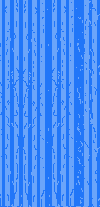
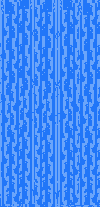
Added North and South view of skeleton.

diff --git a/js/World.js b/js/World.js
@@ -15,7 +15,7 @@ var fallDale =   [  0, 29, 29, 29, 29, 29, 29, 29, 29, 29, 29, 33,  0,  0, 27, 1
 				    0, 27, 33,  0,  1,  0,  0,  0,  0,  0,  0,  0, 27, 33,  0, 17,  0,313,314,  0,  0,313,314,  0,  1,  0,313,314,  0,  0,  0,  0,  0,  0,  0,  0,  0,  0,  0,  0,  0,  0,  0,  0,  0,  0,  0,  0,  0,  0,  0,  0,  0,  0,311,312,  0,  0,  0,  0,  0,  0, 31,  0,
 				    0, 27, 33,  0,  1,  0,  0,  0, 34, 35, 35, 36, 27, 33,  0, 17,  0,  0,  0,  0,  0,  0,  0,  0,  1,  0,  0,  0,  0,  0,  0,  0,  0,  0,  0,  0,  0,  0,  0,  0,  0,  0,  0,  0,  0,  0,  0,  0,  0,  0,  0,  0,  0,  0,313,314,  0,  0,  0,  0,  0,  0, 31,  0,
 				    0, 27, 33,  1,  1,  0,  0,  0, 37, 38, 38, 39, 27, 33,  0, 17,  0,  0,  0,311,312,  0,  0,  0,  1,  1,  0,  0,311,312,  0,  0,  0,  0,  0,  0,  0,  0,  0,  0,  0,  0,  0,  0,  0,  0,  0,  0,  0,  0,  0,  0,  0,  0,  0,  0,  0,  0,  0,  0,  0,  0, 31,  0,
-				    0, 27, 33,  1,  0,  0,  0,  0, 37, 38, 38, 39, 27, 33,  0, 17,  0,  0,  0,313,314,  0,  0,  0,  0,  1,  0,  0,313,314,  0,  0,  0,  0,  0,  0,  0,  0,  0,  0,  0,  0,  0,  0,  0,  0,  0,  0,  0,  0,  0,  0,  0,  0,  0,  0,  0,  0,  0,  0,  0,  0, 31,  0,
+				    0, 27, 33,  1,800,  0,  0,  0, 37, 38, 38, 39, 27, 33,  0, 17,  0,  0,  0,313,314,  0,  0,  0,  0,  1,  0,  0,313,314,  0,  0,  0,  0,  0,  0,  0,  0,  0,  0,  0,  0,  0,  0,  0,  0,  0,  0,  0,  0,  0,  0,  0,  0,  0,  0,  0,  0,  0,  0,  0,  0, 31,  0,
 				    0, 27, 33,  1,  0,311,312,  0, 40, 41, 41, 42, 27, 33,  0, 17,  0,  0,  0,  0,  0,  0,  0,  0,  0,  1,  0,  0,  0,  0,  0,  0,  0,  0,  0,  0,  0,  0,262,263,263,263,263,263,263,263,263,263,264, 33,  0,  0,  0,  0,  0,  0,  0,  0,  0,  0,  0,  0, 31,  0,  
 				    0, 27, 33,801,  0,313,314,  0,  0,  0,  0,  0, 27, 33,  0, 17,  0,  0,  0,  0,  0,  0,  0,  0,  0,  1,  0,  0,  0,  0,311,312,  0,  0,  0,  0,  0,  0,265, 43, 43, 43, 43, 43, 43, 43, 43, 43,266, 33,  0,  0,  0,  0,  0,  0,  0,  0,  0,  0,  0,  0, 31,  0,
 				   29, 28, 33,801,  0,  0,  0,  0,  0,311,312,  0, 27, 33,  0, 17,  0,  0,  0,  0,  0,  0,  0,  0,  0,859,  0,  0,  0,  0,313,314,  0,  0,  0,  0,  0,  0,265, 43, 43, 43, 43, 43, 43,256, 43, 43,266, 33,  0,  0,  0,  0,  0,  0,  0,  0,  0,  0,  0,  0, 31,  0,

diff --git a/js/utilities/ImageLoading.js b/js/utilities/ImageLoading.js
@@ -353,9 +353,9 @@ function loadImages() {
     { varName: magicSwordPic, theFile: "Weapons/magicSword.png" },
     { varName: clubPic, theFile: "Weapons/club.png" },
     { varName: bitePic, theFile: "Weapons/bite.png" },
-    { varName: skeletonPic, theFile: "Monsters/skeleton1.png" },
-    { varName: skeletonPic2, theFile: "Monsters/skeleton2.png" },
-    { varName: skeletonPic3, theFile: "Monsters/skeleton3.png" },
+    { varName: skeletonPic, theFile: "Monsters/skeleton.png" },
+    { varName: skeletonPic2, theFile: "Monsters/skeleton.png" },
+    { varName: skeletonPic3, theFile: "Monsters/skeleton.png" },
     { varName: deadSkeletonPic, theFile: "Monsters/deadSkeleton.png" },
     { varName: deadZombiePic, theFile: "Monsters/deadZombie.png" },
     { varName: batPic, theFile: "Monsters/bat.png" },

diff --git a/js/Main.js b/js/Main.js
@@ -223,7 +223,7 @@ function loadLevel() {
         newEnemy.initialize("bat", batPic, 4);
       } else if (roomGrid[ arrayIndex ] == TILE_SKELETON) {
         newEnemy = new skeletonClass();
-		newEnemy.initialize('Skeleton1', skeletonPic, 6);
+		newEnemy.initialize('Skeleton1', skeletonPic, 4);
       } else if (roomGrid[ arrayIndex ] == TILE_ZOMBIE) {
         newEnemy = new zombieClass();
         newEnemy.initialize('Zombie', zombiePic, 4);

diff --git a/js/enemies/skeleton.js b/js/enemies/skeleton.js
@@ -7,8 +7,8 @@ skeletonClass.prototype = new enemyClass();
 function skeletonClass() {
   this.speed = SKELETON_SPEED;
   this.maxhealth = 20;
-  this.width = 31;
-  this.numberOfFrames = 6;
+  this.width = 43;
+  this.numberOfFrames = 4;
   this.height = 52;
   this.ticksPerFrame = 5;
   this.timeBetweenChangeDir = 700;
